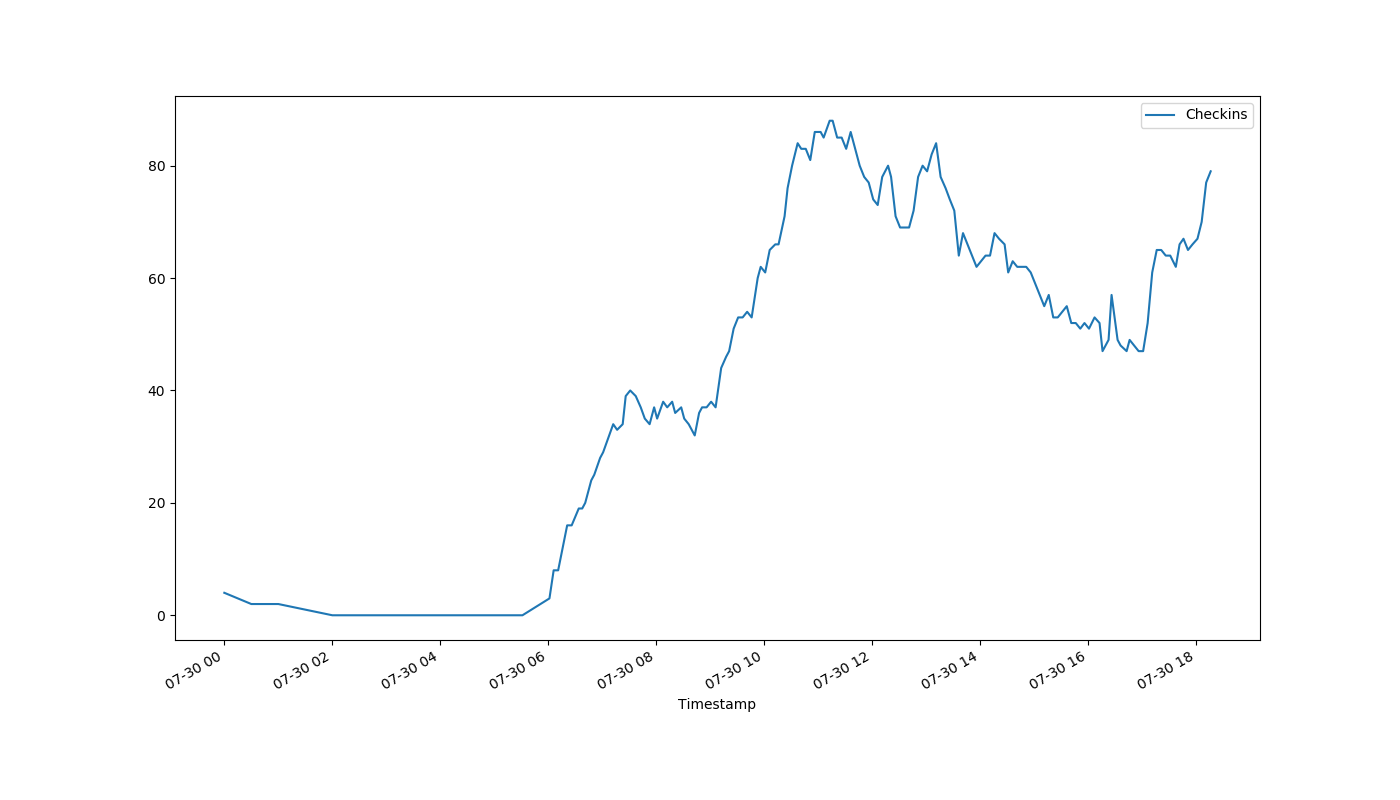
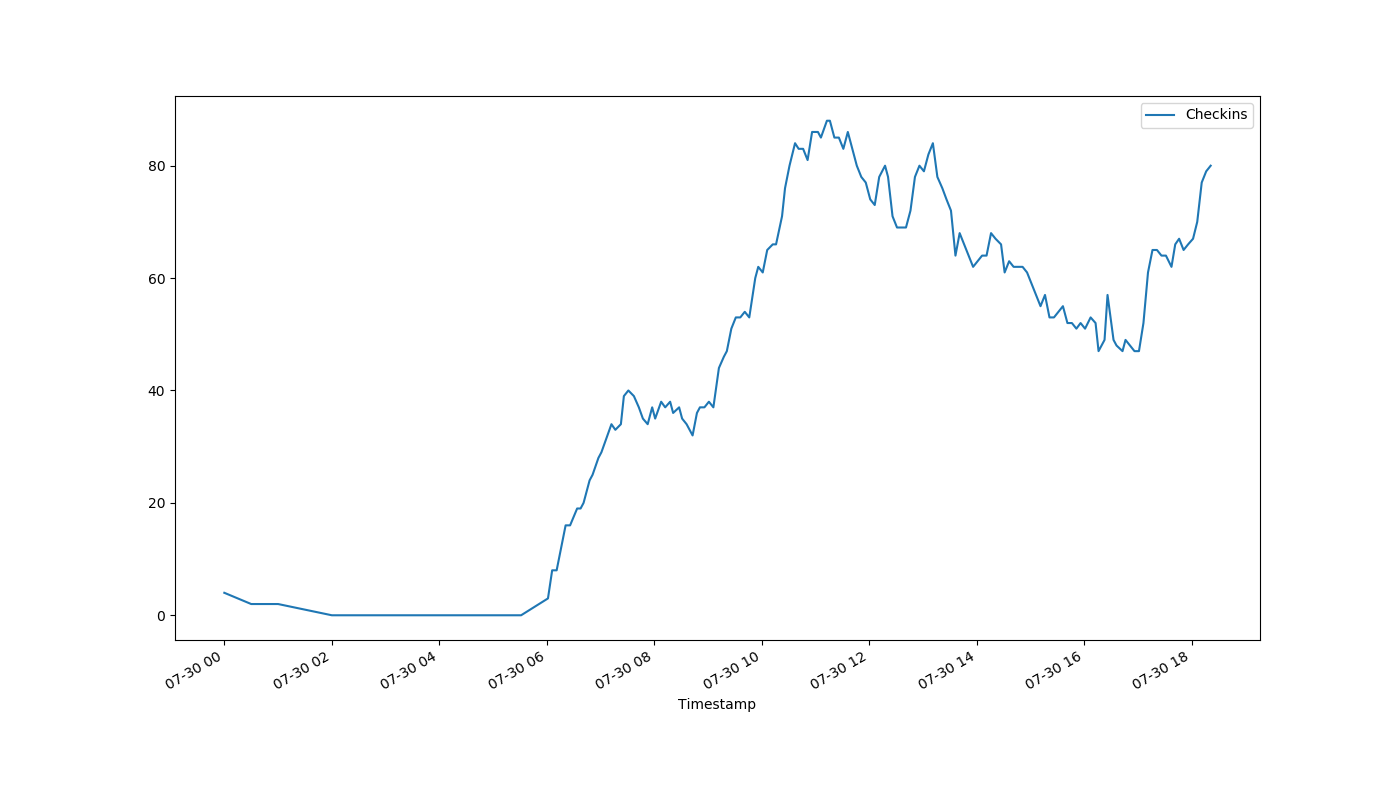
auto-Jul-30-18:23:48

diff --git a/index.html b/index.html
@@ -1,1 +1,1 @@
-<!DOCTYPE html><html><head><meta http-equiv="refresh" content="30"><link rel='stylesheet' href='holmcurrent.css'></head><body><p id='count'>79</p><div id='graph-wrap'><img id='graph' src='holmgraph-Jul-30.png'></div><p id='updated'>Last updated 18:17:05 / 18:16:14</p></body></html>
+<!DOCTYPE html><html><head><meta http-equiv="refresh" content="30"><link rel='stylesheet' href='holmcurrent.css'></head><body><p id='count'>80</p><div id='graph-wrap'><img id='graph' src='holmgraph-Jul-30.png'></div><p id='updated'>Last updated 18:22:05 / 18:21:14</p></body></html>
